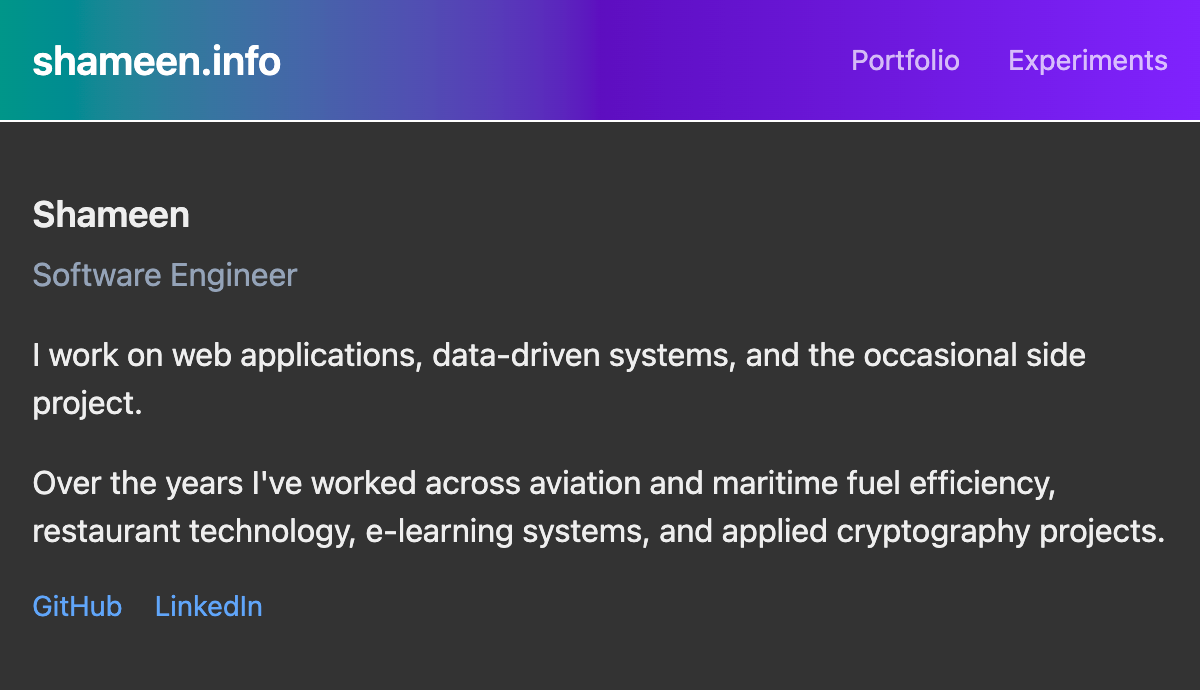
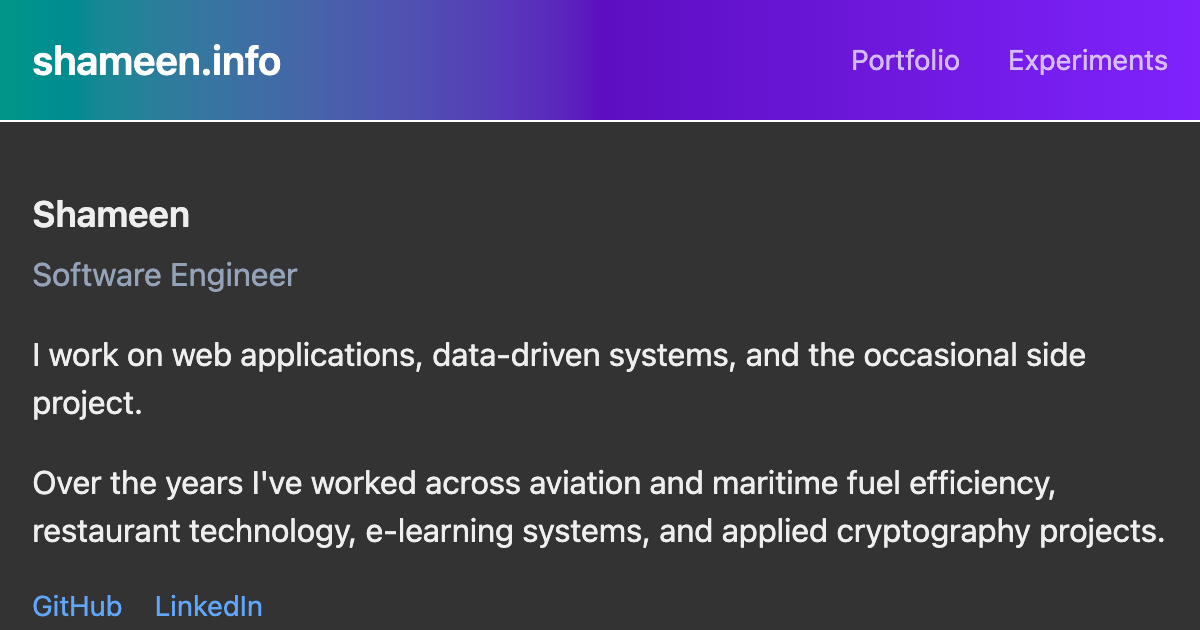
tweak seo/opengraph metadata

diff --git a/src/app.html b/src/app.html
@@ -8,13 +8,17 @@
     <meta name="color-scheme" content="light dark" />
     <meta name="theme-color" content="#eeeeee" media="(prefers-color-scheme: light)" />
     <meta name="theme-color" content="#222222" media="(prefers-color-scheme: dark)" />
-    <meta property="og:title" content="Shameen — Software Engineer" />
-    <meta property="og:description" content="Software engineer building web applications, data-driven systems, and experimental side projects across aviation, maritime, restaurant technology, e-learning, and cryptography." />
+    <meta name="description" content="Shameen’s personal website — software engineer and builder of things." />
+
+    <meta property="og:title" content="Shameen's Website" />
+    <meta property="og:description" content="Shameen’s personal website — software engineer and builder of things." />
     <meta property="og:type" content="website" />
+    <meta property="og:site_name" content="Shameen's Website" />
     <meta property="og:image" content="/images/preview.png" />
+
     <meta name="twitter:card" content="summary_large_image" />
-    <meta name="twitter:title" content="Shameen — Software Engineer" />
-    <meta name="twitter:description" content="Software engineer building web applications, data-driven systems, and experimental side projects across aviation, maritime, restaurant technology, e-learning, and cryptography." />
+    <meta name="twitter:title" content="Shameen's Website" />
+    <meta name="twitter:description" content="Shameen’s personal website — software engineer and builder of things." />
     <meta name="twitter:image" content="/images/preview.png" />
 
     %sveltekit.head%